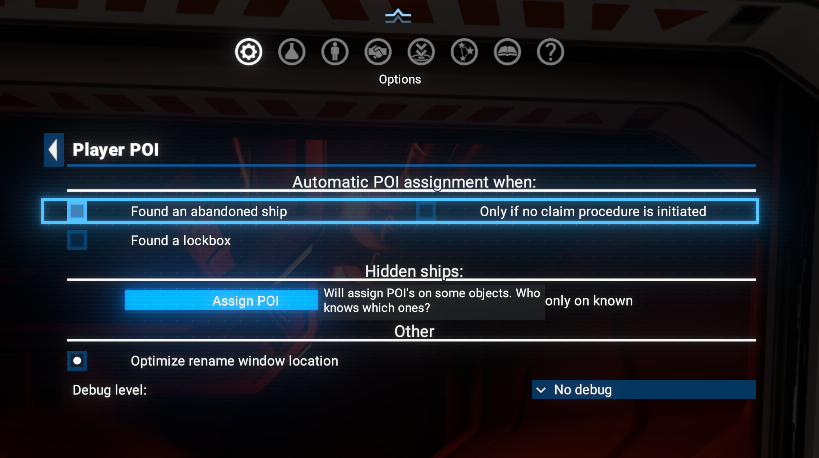
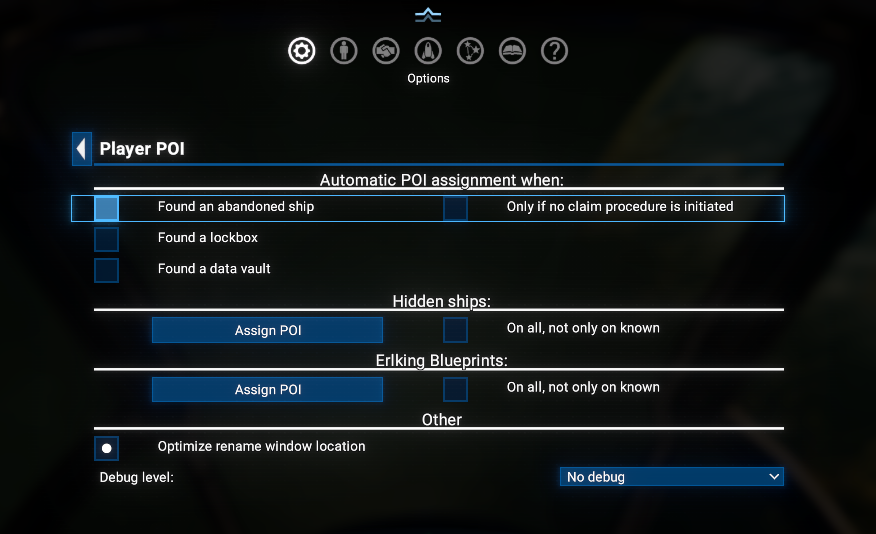
docs(README): enhance POI assignment and requirements details
README.md: +added data vaults to automatic POI assignment
  README.md: ~updated X4: Foundations version requirement
  README.md: +added example image for POIs
  README.md: ~updated automatic POI assignment section to include data vaults

diff --git a/README.md b/README.md
@@ -6,7 +6,7 @@ Marks abandoned ships, lockboxes, stations, and any point in space, either autom
 
 - **Creation of custom POIs** on the map at any location or by assignment to objects (non-player stations, gates, abandoned ships, lockboxes).
 - **Automatic name generation** for POIs based on the assigned object name or location coordinates.
-- **Automatic POI assignment** to newly discovered abandoned ships and lockboxes, with optional exclusion during claim procedures.
+- **Automatic POI assignment** to newly discovered abandoned ships, lockboxes, and data vaults, with optional exclusion during claim procedures for ships.
 - **Duplicate prevention** - checks prevent creating multiple POIs at the same location.
 - **POI management tab** in the Property Owned Information menu for centralized access to all your POIs.
 - **Context menu** for POIs in space and on the map, with options to rename, self-destruct, or locate POIs.
@@ -15,7 +15,7 @@ Marks abandoned ships, lockboxes, stations, and any point in space, either autom
 
 ## Requirements
 
-- **X4: Foundations**: Version 8.00HF3 or newer.
+- **X4: Foundations**: Version 8.00HF3 or 9.00 and newer.
 - **UI Extensions and HUD**: Version v8.0.4.0 or higher by [kuertee](https://next.nexusmods.com/profile/kuertee?gameId=2659).
   - Available on Nexus Mods: [UI Extensions and HUD](https://www.nexusmods.com/x4foundations/mods/552)
 - **Mod Support APIs**: Version 1.95 or higher by [SirNukes](https://next.nexusmods.com/profile/sirnukes?gameId=2659).
@@ -66,6 +66,8 @@ The created `POI` will be visible in space, on a map and in the `Player POI` tab
 
 You can manage your created `POIs` in space, on map and in the `Player POI` tab of the Property Owned Information.
 All management actions (like renaming or self-destructing a `POI`) are available in the context menu, which can be accessed by right-clicking on a `POI` in space, on the map or in the tab.
+
+![Some POIs example](docs/images/short_example.png)
 
 #### Managing POIs in space
 
@@ -134,13 +136,15 @@ Where the `Player POI` options menu looks like this:
 
 #### Automatic POI assignment
 
-There are two options group under the `Automatic POI assignment when:` section:
+There are three options group under the `Automatic POI assignment when:` section:
 
 - `Found an abandoned ship` - when enabled, a `POI` will be automatically assigned to any found abandoned ship. But moreover, all already known abandoned ships will be assigned with `POI`s on enabling this option.
 
   This option has an additional sub-option `Only if no claim procedure is initiated`, which will only assign `POI`s to abandoned ships that are not currently being claimed by player. This means that if the player set a claim procedure on an abandoned ship as default action or selected this action by event menu, the `POI` will not be assigned to such ship.
 
 - `Found a lockbox` - when enabled, a `POI` will be automatically assigned to any found lockbox. And similarly to previous, all already known lockboxes will be assigned with `POI`s on enabling this option.
+
+- `Found a data vault` - when enabled, a `POI` will be automatically assigned to any found data vault. And similarly to previous, all already known data vaults (after installing the version 8.00.04) will be assigned with `POI`s on enabling this option.
 
 #### Other
 
@@ -174,6 +178,11 @@ In addition, for the resolving issues, you can enable debug logging in the optio
 - [SirNukes](https://next.nexusmods.com/profile/sirnukes?gameId=2659) — for the `Mod Support APIs` that power the UI hooks.
 
 ## Changelog
+
+### [8.00.04] - 2026-07-22
+
+- **Added**
+  - Possibility to automatically assign POI's to found data vaults and reveal ErlKing's blueprint data vaults on the map.
 
 ### [8.00.03] - 2026-03-01
 